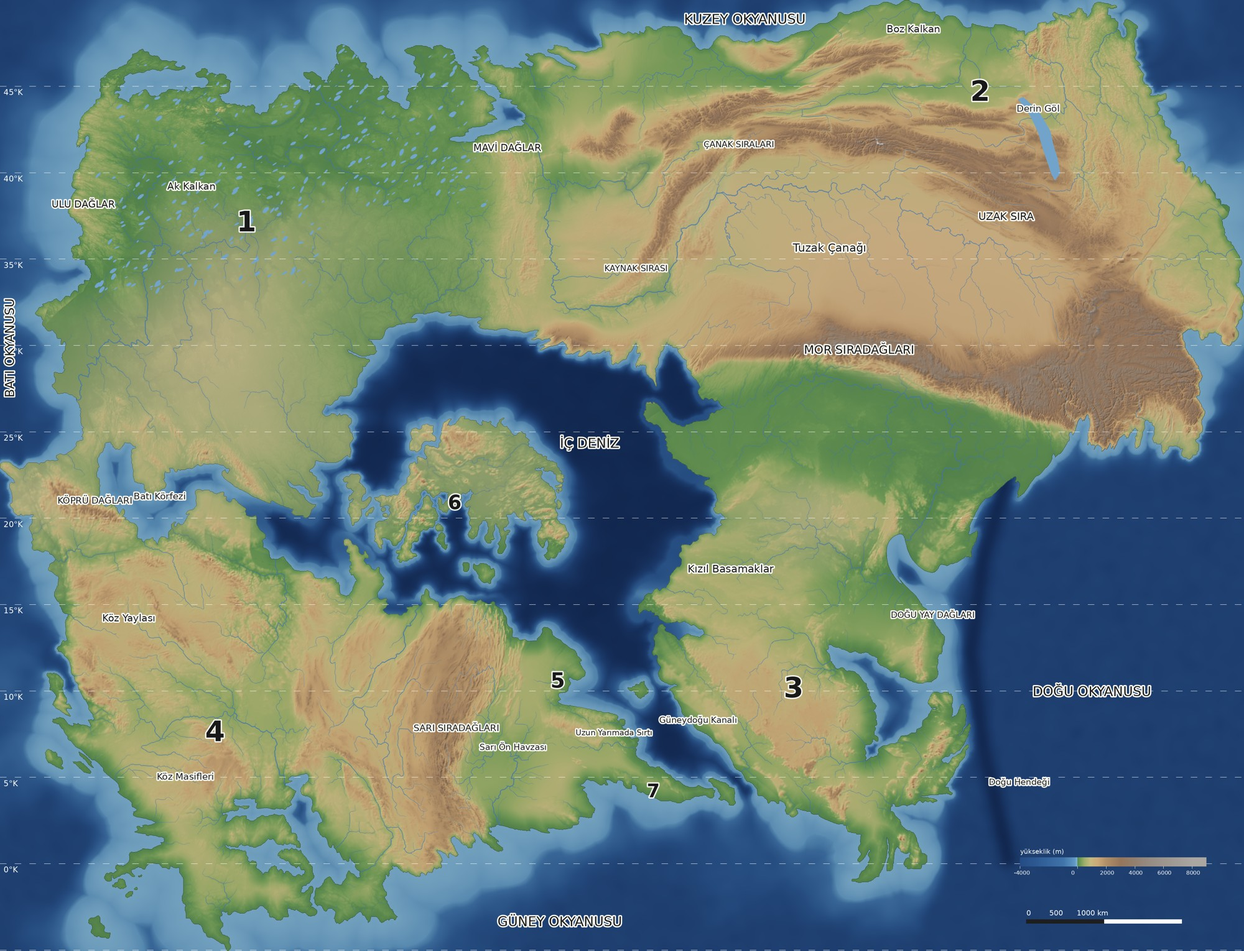
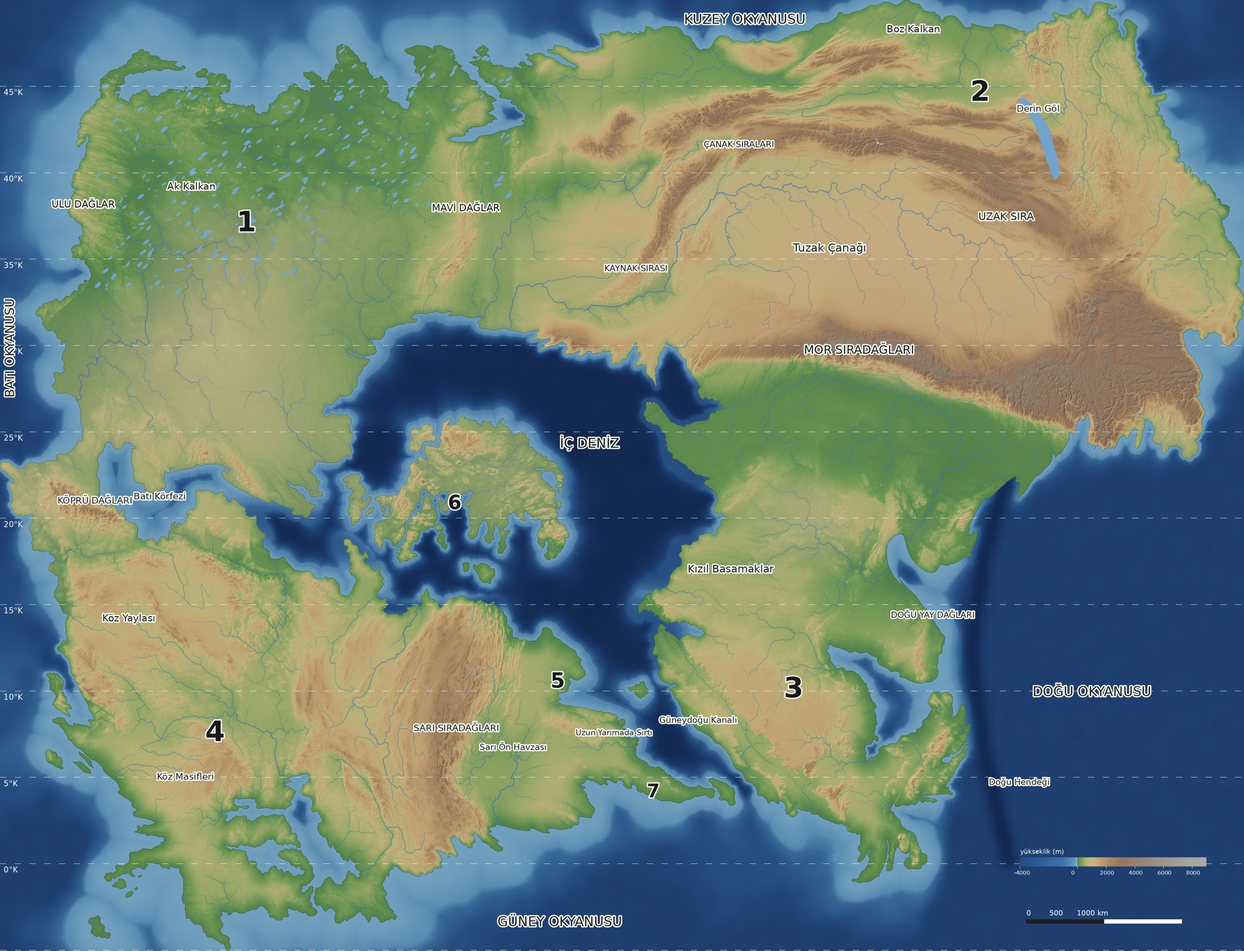
Tarih: Mavi Dağlar sahibin çizdiği kavisli hatta; düz Ural izi bastırıldı
Claude-Session: https://claude.ai/code/session_01TrTgWsQ7k9npTcPJkL6aYQ

Changed region(s): [[0.31, 0.0614, 0.465, 0.3379], [0.155, 0.1536, 0.186, 0.1843]]

diff --git a/tarih/benzer.py b/tarih/benzer.py
@@ -31,17 +31,18 @@ def log(s):
 KARSILIK = [
     {   # 1: İskandinav dağları batı kıyısında (Ulu Dağlar), Fin kalkanı göllü kuzey, Urallar doğu sınırda (Mavi Dağlar)
         "ad": "Avrupa", "kutu": (-4, 84, 42, 72), "parca": {"1", "2"},
-        "etiket": [("ULU DAĞLAR", 13.5, 63.0, 16), ("MAVİ DAĞLAR", 59.5, 61.5, 16), ("Ak Kalkan", 30.5, 64.0, 16)],
+        "etiket": [("ULU DAĞLAR", 13.5, 63.0, 16), ("Ak Kalkan", 30.5, 64.0, 16)],
         "nokta": [(105, 470, 7.0, 58.0), (190, 105, 25.8, 71.1), (800, 110, 59.2, 65.0), (808, 520, 58.3, 54.2)],
         "bolge": [(0, 0), (870, 0), (875, 300), (880, 600), (860, 620), (600, 720), (560, 960), (400, 880), (260, 880), (170, 795), (90, 775), (0, 725)],
     },
     {   # Mavi Dağlar: 430 milyon yıllık 1 ile 2 dikişi. Düz Ural şeridi yerine kıvrımlı, yaşlı Apalaş sırtları (sahibin çizdiği hat).
-        "ad": "Mavi", "kutu": (-90, -72, 32, 44), "parca": {"1", "2"}, "oncelik": 2.5, "yumusak_km": 45,
-        "etiket": [],
-        "nokta": [(793, 139, -76.3, 41.6), (808, 228, -78.6, 39.6), (822, 312, -80.6, 37.9), (833, 407, -82.9, 36.2),
-                  (840, 512, -85.6, 34.4)],
-        "bolge": [(760, 110), (830, 110), (850, 230), (868, 320), (878, 410), (885, 520), (800, 530), (790, 410), (775, 320),
-                  (760, 230)],
+        "ad": "Mavi", "kutu": (-90, -72, 32, 44), "parca": {"1", "2"}, "oncelik": 2.5, "yumusak_km": 45, "carpan": 1.35,
+        "etiket": [("MAVİ DAĞLAR", -79.6, 38.6, 16)],
+        # sahibin çizdiği kavisli hat: kuzey kıyıdaki yarığın biraz batısından güneybatıya, iç denize doğru
+        "nokta": [(750, 212, -76.3, 41.6), (744, 300, -78.6, 39.6), (744, 360, -80.6, 37.9), (724, 420, -82.9, 36.2),
+                  (690, 480, -85.6, 34.4)],
+        "bolge": [(715, 180), (785, 180), (790, 300), (790, 365), (770, 430), (735, 500), (650, 495), (685, 410), (700, 360),
+                  (700, 300), (710, 230)],
     },
     {   # 2'nin kuzeyi ve ortası: Orta Sibirya; Putorana = Kuzey Tuzakları, Baykal = Derin Göl, Sayanlar = Uzak Sıra
         "ad": "Sibirya", "kutu": (60, 140, 44, 78), "parca": {"2", "serit"},
@@ -412,7 +413,7 @@ def ekvator_kalkan(z, kara, s):
 
 
 # Mavi Dağlar ve çevresi Mor çarpışmasından az etkilenip hafifçe kabarır: kuzeyde yaklaşık 150 m, güneyde (Mor'a yakın) 350 m
-MAVI = {"cizgi": [(793, 139), (808, 228), (822, 312), (833, 407), (840, 512)], "kabarti": [150, 190, 240, 300, 350], "yari_km": 160.0}
+MAVI = {"cizgi": [(750, 212), (744, 300), (744, 360), (724, 420), (690, 480)], "kabarti": [150, 190, 240, 300, 350], "yari_km": 160.0}
 
 
 def mavi_kabarti(z, kara, s):
@@ -457,6 +458,23 @@ def sari_uc(z, kara, s):
     ImageDraw.Draw(im).polygon([(x * s, y_ * s) for x, y_ in g["yayla"]], fill=1.0)
     Y = ndimage.gaussian_filter(np.asarray(im), 50 / (O.KM_PX / s)) * (1 - W)
     return np.where(kara & (z > b), b + (z - b) * (1 - Y * (1 - g["yayla_kat"])), z)
+
+
+# Avrupa karşılığındaki Urallar düz bir çizgi halinde Mavi çizgisine düşüyor; Mavi Dağlar başka yere taşındığı için bastırılır
+URAL = {"cizgi": [(800, 100), (808, 530)], "yari_km": 110.0, "taban": 150.0, "kat": 0.2}
+
+
+def ural_bastir(z, kara, s):
+    from scipy.spatial import cKDTree
+    c = np.array(URAL["cizgi"], float)
+    pts = np.vstack([c[0] + (c[1] - c[0]) * t for t in np.linspace(0, 1, 300)[:, None]]) * s
+    ny, nx = z.shape
+    yy, xx = np.mgrid[0:ny:4, 0:nx:4]
+    d, _ = cKDTree(pts).query(np.stack([xx.ravel(), yy.ravel()], 1))
+    W = np.clip((URAL["yari_km"] - d.reshape(xx.shape) * O.KM_PX / s) / 50, 0, 1)
+    W = ndimage.zoom(W, (ny / W.shape[0], nx / W.shape[1]), order=1)[:ny, :nx]
+    b = URAL["taban"]
+    return np.where(kara & (z > b), b + (z - b) * (1 - W * (1 - URAL["kat"])), z)
 
 
 MOR_SIRT = [(1075, 615), (1150, 562), (1300, 562), (1500, 614), (1715, 674), (1870, 700)]
@@ -534,6 +552,7 @@ def bilesik():
     z = np.where(z > 850, 850 + (z - 850) * (1 - 0.75 * Wl), z)
     z = on_ova(z, kara, s, lab, adlar)
     z = sirt_taban(z, kara, s)
+    z = ural_bastir(z, kara, s)
     z = mavi_kabarti(z, kara, s)
     z = sari_uc(z, kara, s)
     if TASARIM.get("etkin"):
